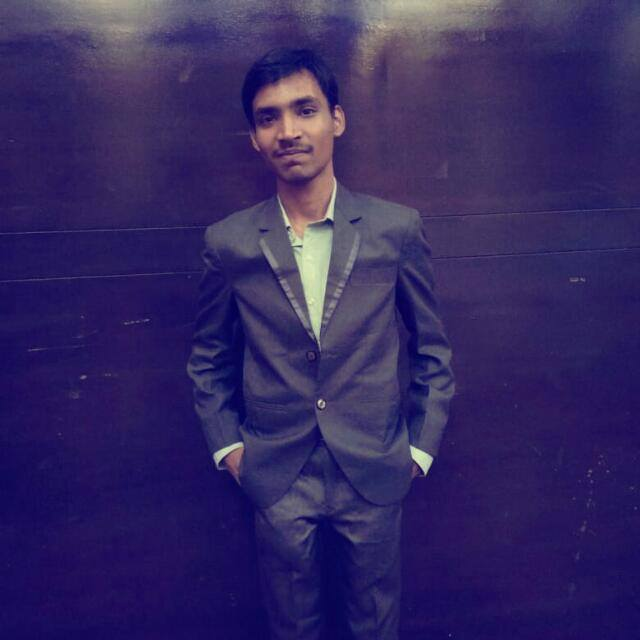
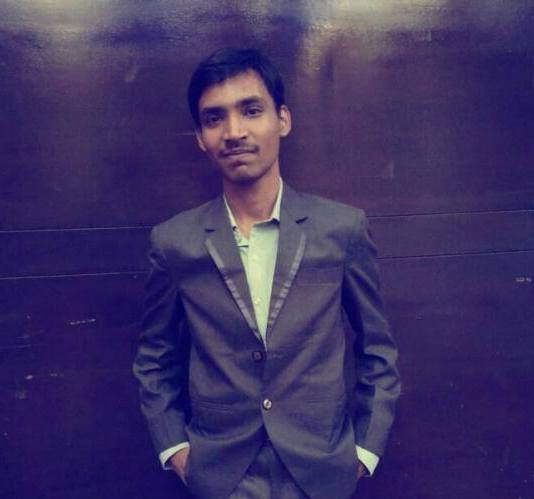
added picture and information

diff --git a/personal_portfolio/portfolio.css b/personal_portfolio/portfolio.css
@@ -44,6 +44,7 @@ nav{
 	background-color: #C4C70D;
 	margin-right: 5px;
     align-items: center;	
+    box-shadow: 0 60px 80px 6px;
 }
  nav a{
  	display: block;
@@ -54,11 +55,25 @@ nav{
     color: white;
 
  }
+ #welcome-section #intro{
+ 	display: flex;
+ 	align-items: center;
+ 	justify-content: center;
+ }
 
-#welcome-section #intro{
+#welcome-section #intro #logo img{
+	display: inline-block;
+	border-radius: 50%;
+	margin-right: 100px;
+	height: 300px;
+	width: 300px;
+}
+#welcome-section #intro form{
+
     position: relative;
+    display: inline-block;
     margin-top: 50px;
-    margin-left: 700px;
+    
 	width: 500px;
 	font-family: 'Open Sans', sans-serif;
 }

diff --git a/personal_portfolio/portfolio.html b/personal_portfolio/portfolio.html
@@ -17,7 +17,11 @@
 		<div id="quote">
 		<p>"Your Attitude defines Everything" </p>
 	</div>
+	
 	<div id="intro">
+		<div id="logo">
+		<img src="pp.jpg">
+	</div>
 		<form>
 			<div id="row">
 			<label id="q">Studying at:</label>
